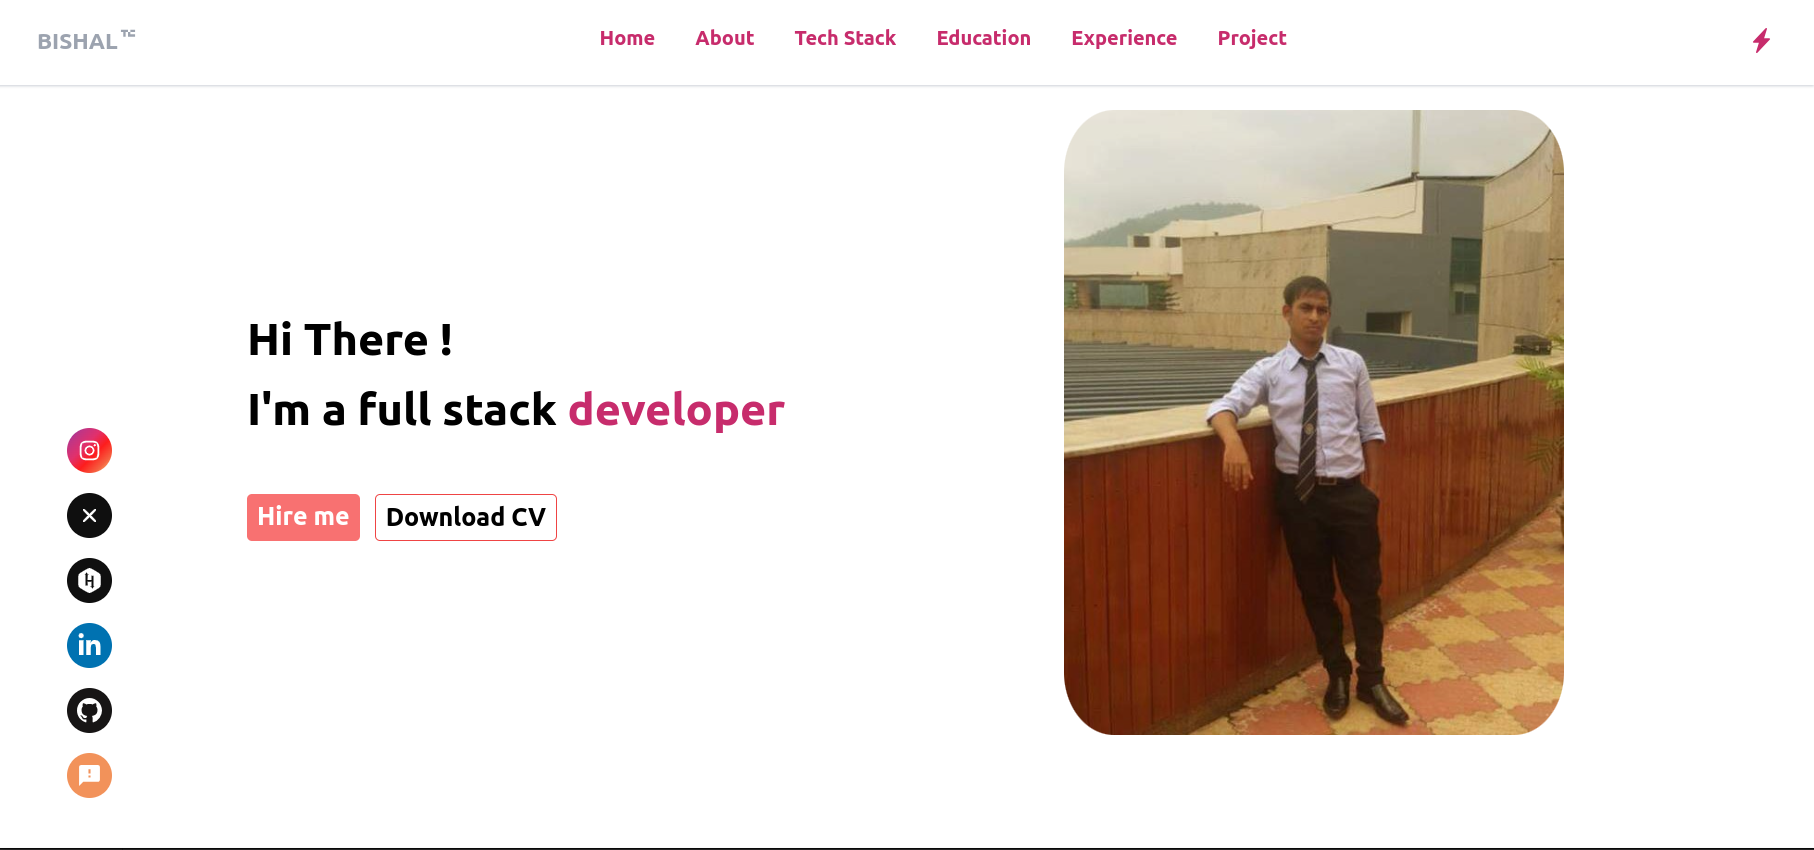
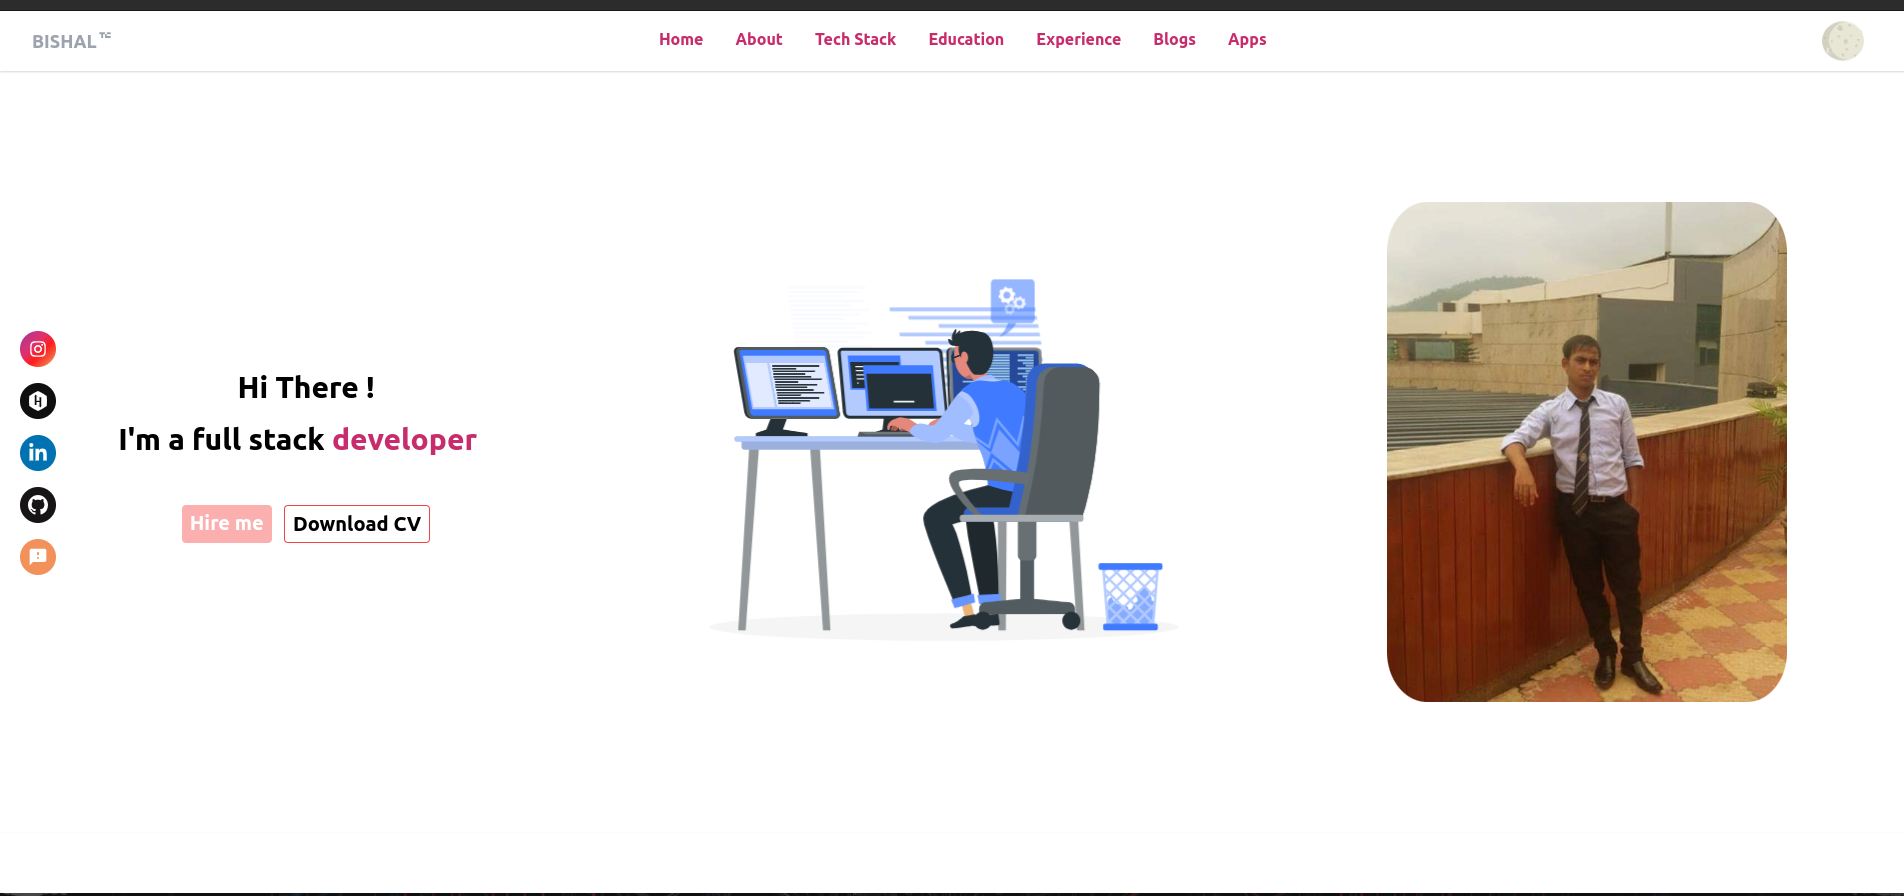
"fixed styles"

diff --git a/sections/Intro.jsx b/sections/Intro.jsx
@@ -43,12 +43,12 @@ const Intro = () => {
 
   return (
     <Fragment>
-      {/* <Head>
+      <Head>
         <title>Bishal&apos;s Portfolio</title>
-      </Head> */}
+      </Head>
       <section id="home">
         <div
-          className="min-h-[100vh] overflow-x-hidden px-[20px] md:px-[20px] lg:px-[20px] pt-[80px] md:pt-0 md:flex items-center justify-around shadow-zinc-300 dark:shadow-zinc-700 shadow-sm"
+          className="min-h-[100vh] flex align-center justify-center flex-wrap overflow-x-hidden px-[20px] md:px-[20px] lg:px-[20px] pt-[60px] md:pt-0 md:flex items-center justify-around shadow-zinc-300 dark:shadow-zinc-700 shadow-sm"
           ref={homeRef}
         >
           <div
@@ -83,14 +83,9 @@ const Intro = () => {
                 Download CV
               </Link>
             </div>
-            <div
-              style={{
-                width: "100%",
-                maxWidth: "400px",
-              }}
-            >
-              <GreetingLottie animationPath="/lottie/coding.json" />
-            </div>
+          </div>
+          <div className="w-full max-w-[500px]">
+            <GreetingLottie animationPath="/lottie/coding.json" />
           </div>
           {/* Image */}
           <div

diff --git a/utils/SocialMedia.jsx b/utils/SocialMedia.jsx
@@ -10,7 +10,12 @@ const SocialMedia = () => {
 
   return (
     <Fragment>
-      <div className="absolute left-5 bottom-20 fixed flex flex-col gap-4 z-1 top-[320px]">
+      <div
+        className="absolute left-5 bottom-20  flex flex-col gap-4 z-1 top-[320px]"
+        style={{
+          position: "fixed",
+        }}
+      >
         {SocialMediaData.map((social, key) => (
           <Link className="w-fit" href={social.link} key={key}>
             <div
